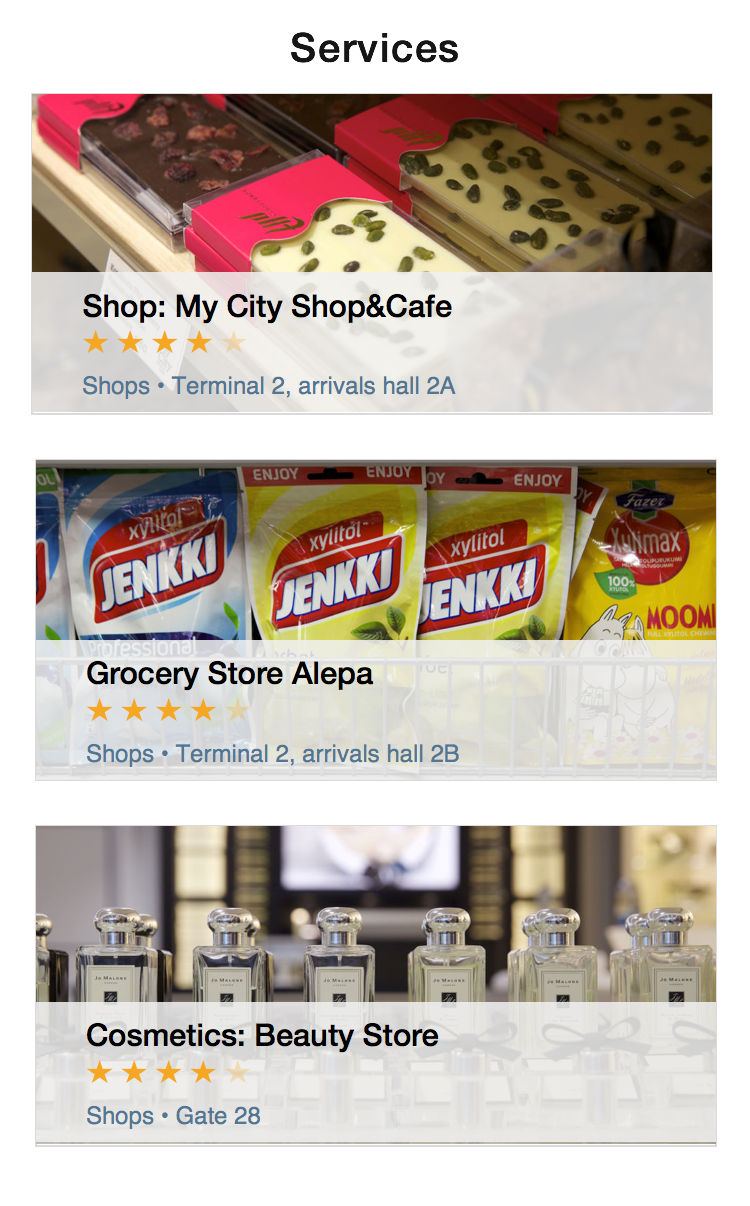
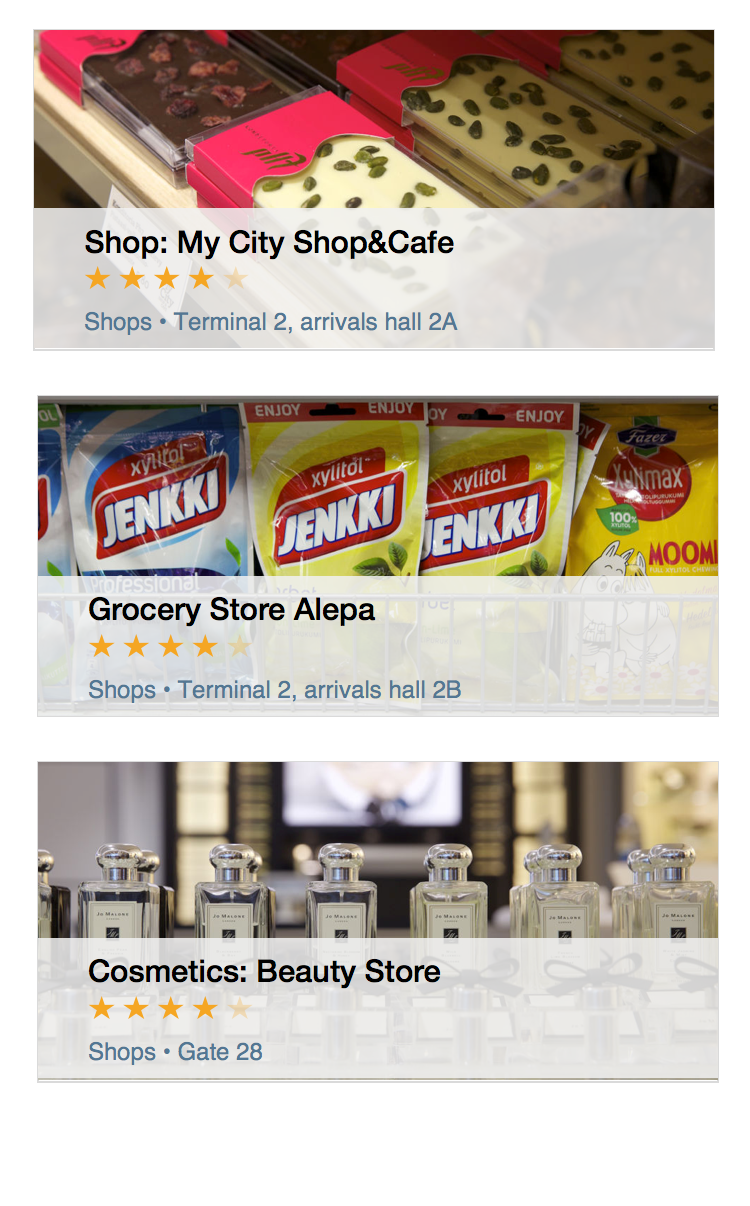
Updated services list image. Added title to services tab

diff --git a/www/views/services/services.html b/www/views/services/services.html
@@ -1,4 +1,9 @@
 <ion-view class="services">
+
+  <ion-nav-title>
+      <h1 class="title starbucks">Services</h1>
+  </ion-nav-title>
+
   <ion-content>
 
     <img src="img/Services List.png" style="width: 100%" ng-click="goToShop()">
